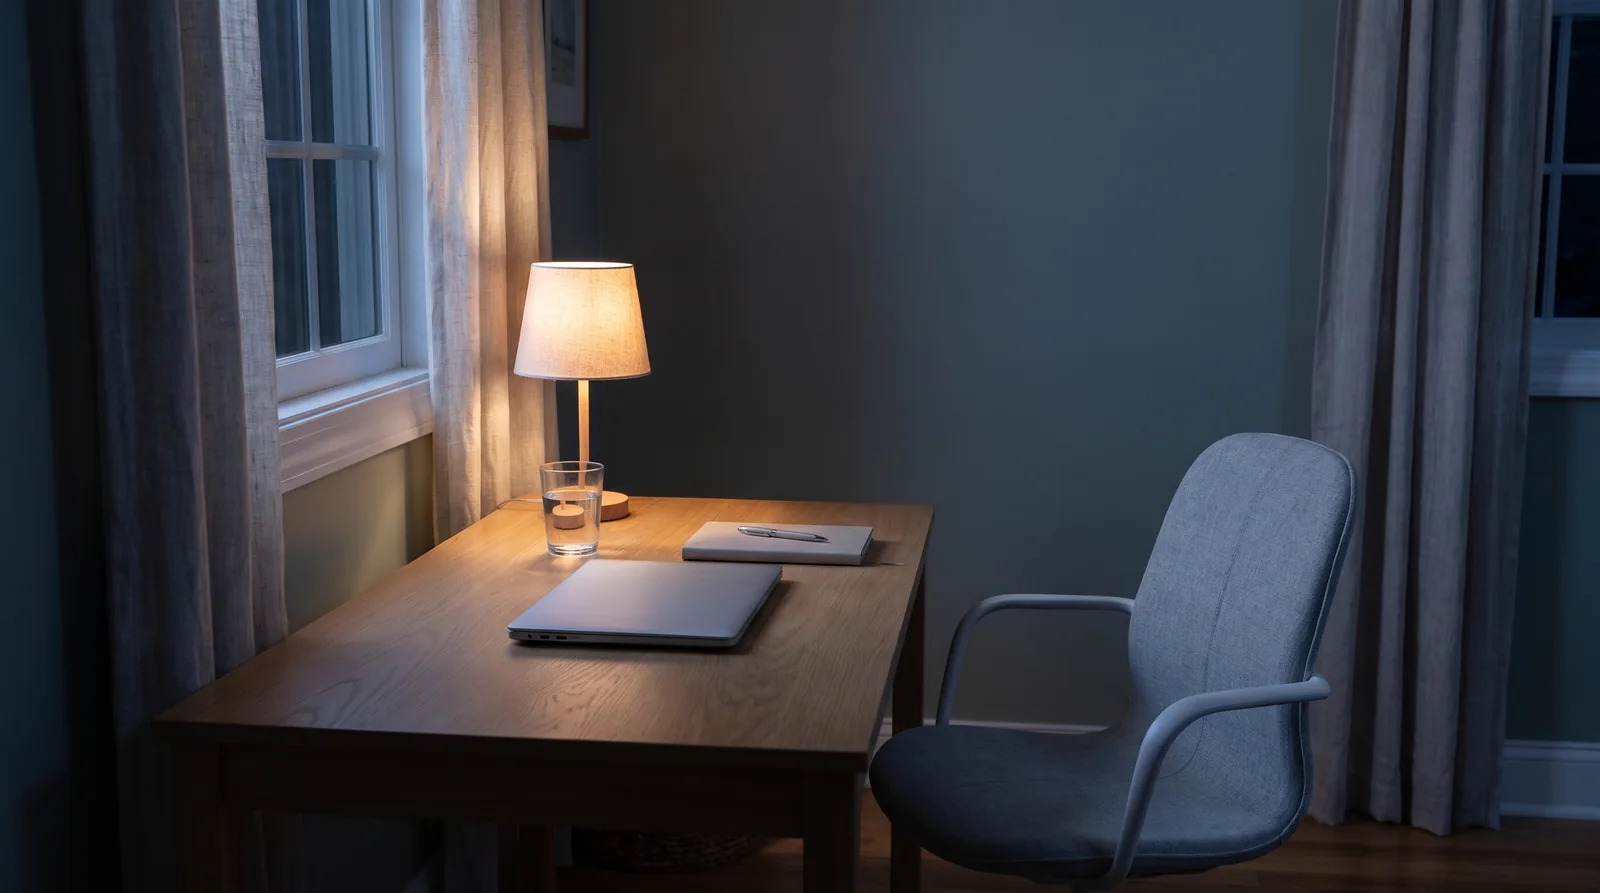
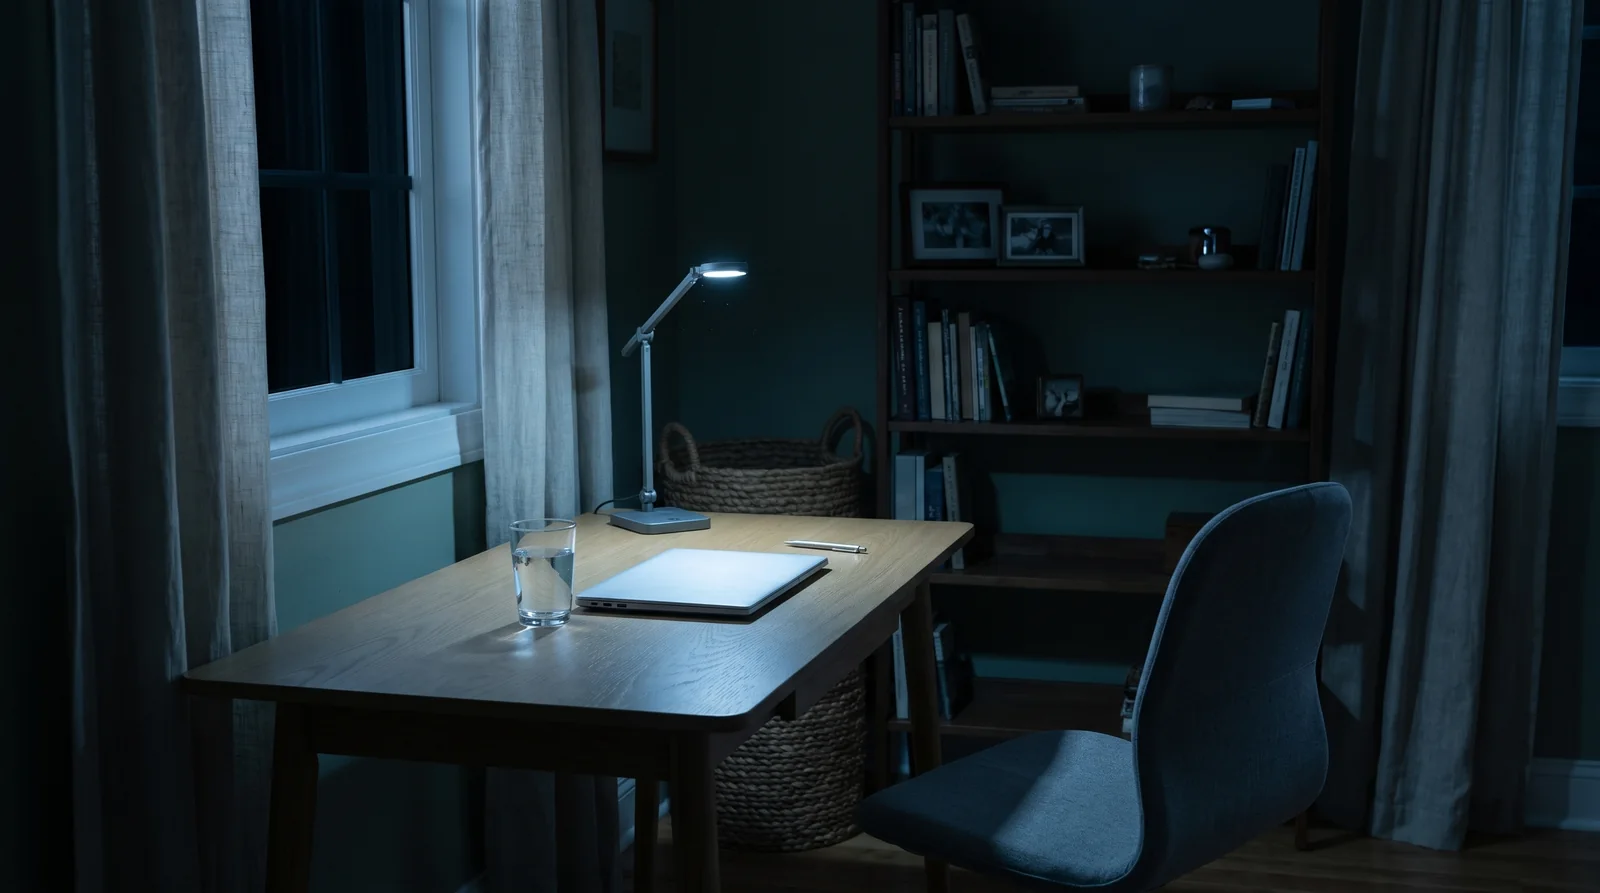
photos: aca-open-enrollment-2027-deadline recheck fixes

diff --git a/blog-pipeline/photos-completed/aca-open-enrollment-2027-deadline.md b/blog-pipeline/photos-completed/aca-open-enrollment-2027-deadline.md
@@ -36,3 +36,6 @@ note: "Photo Claude 2026-11-19: 5 frames, one sage green home office by a curtai
 - image_url: https://scan.ismyhometoxic.com/blog-images/acaopenenro-freedom-v1.webp
 - placement: final image before the closing CTA
 - completed: 2026-11-19T11:25:00
+
+## Recheck (Photo Claude) 2026-11-20
+Recheck: Villain redone from the hero room so desk, chair and basket match.
